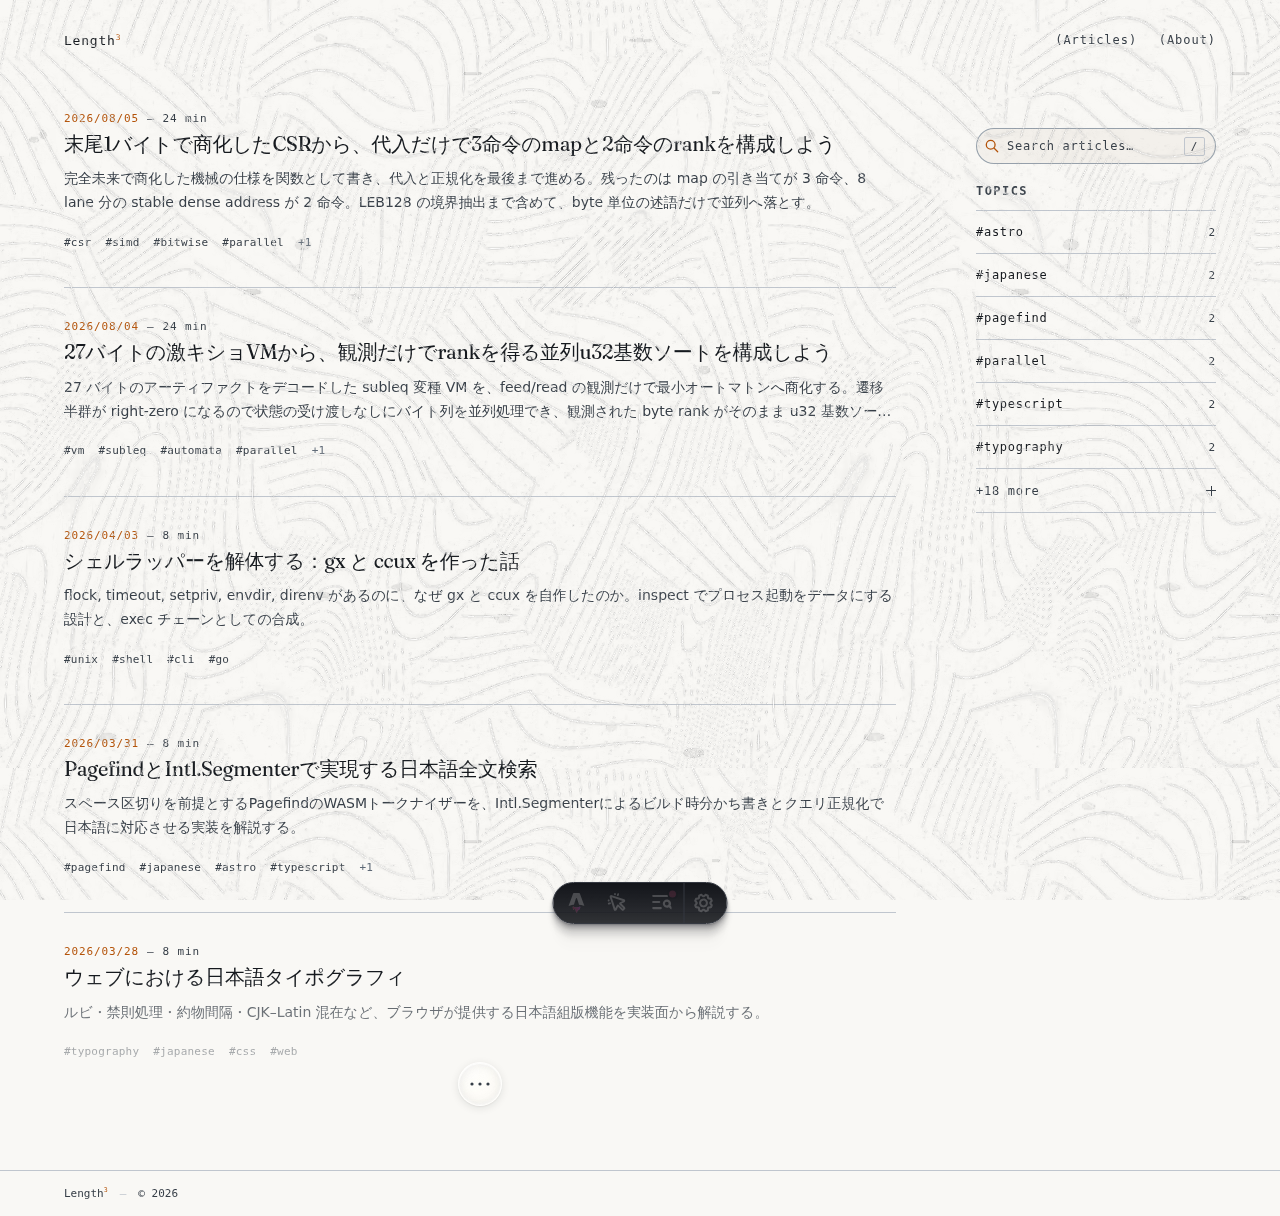
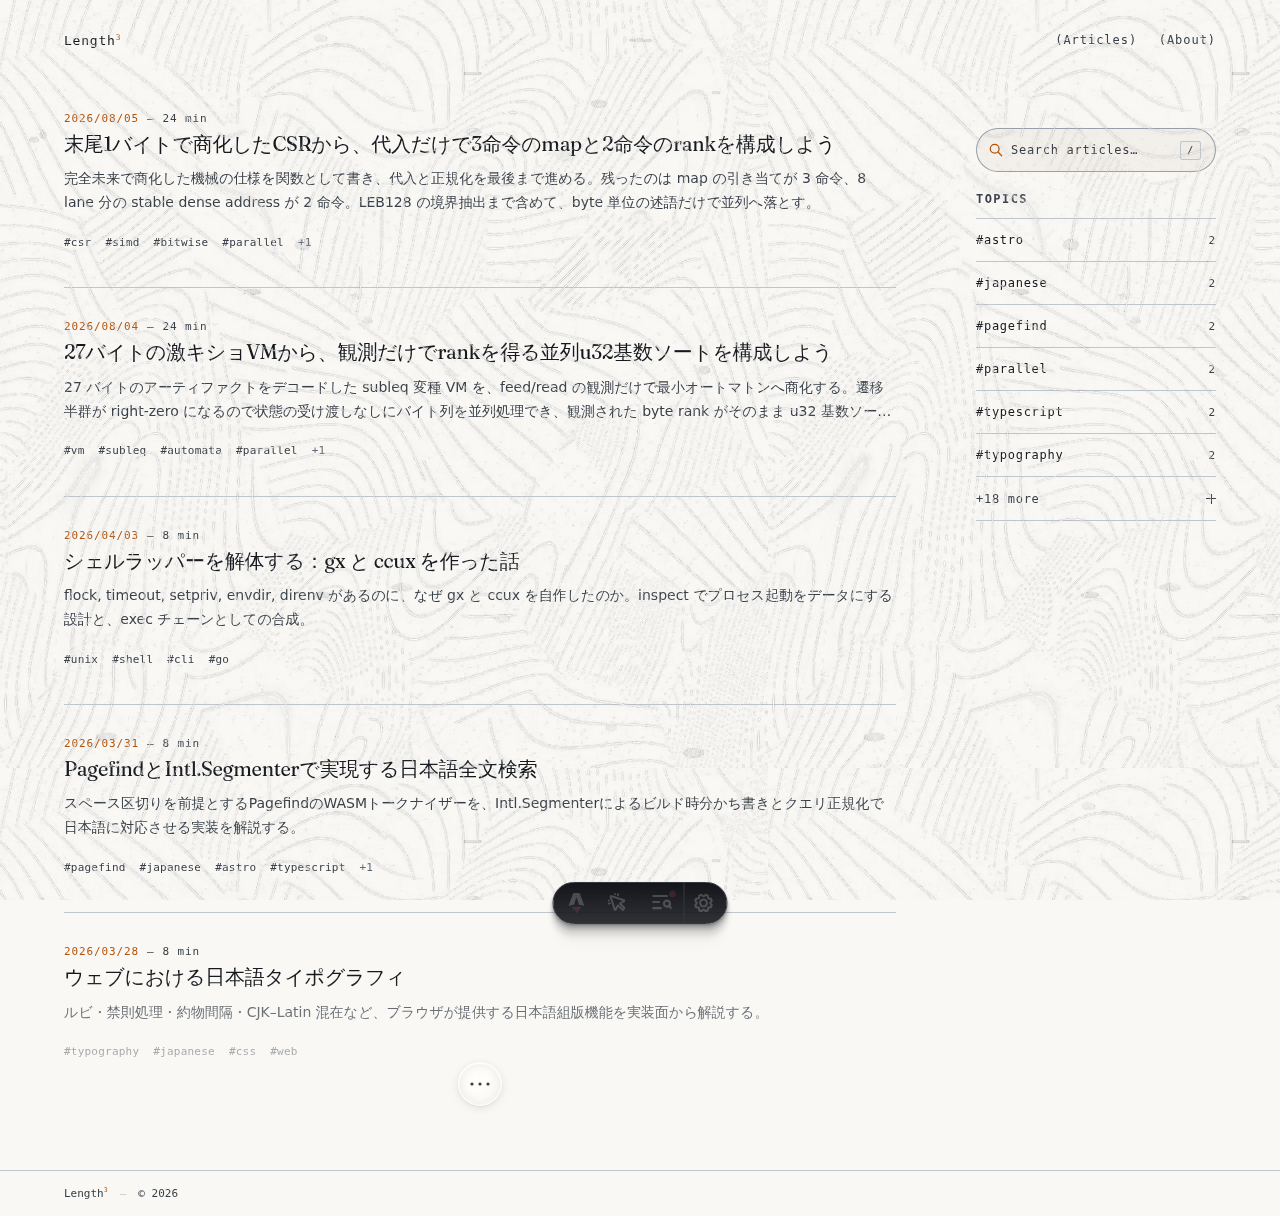
Round the corners, and fix a focus ring that never rendered
角:

- 半径のスケールを 2/3/4/8/10px から 4/6/8/12/16px へ。以前は面の大小に
  関わらずほぼ直角で、小さなチップでは意図的に見えても、600px のコード
  ブロックでは「まだ仕上げていない箱」に見えていた
- 形は corner-shape で超楕円にした。円弧は直線から曲線へ移る瞬間に曲率が
  飛ぶので、角が「切られた」ように見える。超楕円は曲率が連続するぶん同じ
  半径でも柔らかく、四つの弧と四本の直線ではなく一本の輪郭に見える。
  Chromium 以外は border-radius だけが効いて普通の丸角に落ちる
- pill は除外。半円の端そのものが形なので、超楕円にすると潰れる
- コードブロック 2px → 12px、コピーボタン 6px → 8px。リードは四隅とも
  丸め、左の琥珀の棒が丸みの外へ突き出ないよう overflow で切った

検索:

- 焦点環が最初から出ていなかった。--focus-halo（色だけの値）を box-shadow
  に直接渡していたが、長さの無い box-shadow は不正なので宣言ごと落ちる。
  outline で描き直した。forced-colors では box-shadow が丸ごと剥がされる
  ので、環が影だけを頼りにしていると必要な人にだけ消える
- 環と枠の両方を琥珀にすると同心円が二重になるので、変えるのは環だけに
  した
- カード自身の焦点環を消した。showModal() の初期フォーカス先であって
  操作する部品ではないのに、開いた瞬間モーダル全体が琥珀で囲まれていた
- 結果がまだ無いあいだ、結果の行のために空けた余白が検索欄の下の空箱として
  残っていた。カードは検索欄のぶんで止める（149px → 131px）
- 結果の 1 件を帯ではなく面にした。左右を内側へ入れて角を丸め、選択中の
  1 件がカードいっぱいの帯ではなくひとつの塊に見えるようにした
  （Starlight や shadcn の command も結果は一覧の内側に落としている）
- 一覧は <ul> なので、内側へ入れた途端に行頭記号が出てきた。list-style を
  切った
- サイドバーの検索トリガーが 36px で、spec §8 のタップターゲット下限
  (44px) を満たしていなかった
- カードの帯の上下 padding は閉じるボタン (44px) に負けて効いていなかった
  ので、左右だけ揃えた

スペーシング:

- 一覧の頭を 1rem → 1.5rem。ヘッダに罫が無いので 1 件目の日付が題字と
  地続きに見えていた

spec §1 に角の節を新設し、§6 の焦点環を outline 前提に書き直した。

pnpm lint / check / test:unit (136 tests) / e2e (8 passed) / build 通過。
docs のスクリーンショットは再生成した。

Claude-Session: https://claude.ai/code/session_01LaSeo7pCYsjGAyx8PCnChu

Changed region(s): [[0.75, 0.0938, 0.8438, 0.4375], [0.8438, 0.0938, 0.875, 0.125]]

diff --git a/src/styles/components/search.css b/src/styles/components/search.css
@@ -8,8 +8,9 @@
   align-items: center;
   gap: 0.5rem;
   width: 100%;
-  min-height: 2.25rem;
-  padding: 0.375rem 0.625rem 0.375rem 0.5rem;
+  /* 44px — spec §8 のタップターゲット下限。36px で足りていなかった。 */
+  min-height: 2.75rem;
+  padding: 0.5rem 0.875rem 0.5rem 0.75rem;
   border: 0.0625rem solid var(--surface-border);
   border-radius: var(--radius-pill);
   background: var(--surface-fill);
@@ -66,6 +67,15 @@
   background: var(--overlay-bg);
 }
 
+/* カードは showModal() の初期フォーカス先（本文へ焦点が飛ばないための受け皿）
+   であって、操作する部品ではない。焦点環を出すと、開いた瞬間にモーダル全体が
+   琥珀色の枠で囲まれる。 */
+.search-card:focus,
+.search-card:focus-visible {
+  outline: none;
+  box-shadow: var(--shadow-card);
+}
+
 .search-card {
   width: min(36rem, calc(100vw - 1rem));
   max-height: calc(100dvh - 1rem);
@@ -82,7 +92,9 @@
   display: flex;
   align-items: center;
   gap: 0.625rem;
-  padding: 0.25rem 0.375rem 0.25rem 1rem;
+  /* 帯の高さは閉じるボタン (44px) が決める。右は押せる範囲がカードの縁に
+     届くよう詰め、左は検索欄の始まりと同じ 1rem に揃える。 */
+  padding: 0 0.25rem 0 1rem;
   border-bottom: 0.0625rem solid var(--rule);
   background: var(--bg-2);
 }
@@ -215,8 +227,16 @@
     'results';
   align-items: start;
   gap: 0.75rem;
-  padding: 0.875rem 1rem 0.75rem;
+  padding: 0.875rem 1rem;
   overflow: hidden;
+}
+
+/* 結果がまだ無いあいだは、カードを検索欄のぶんで止める。結果の行のために
+   空けた余白が、何も無いときは検索欄の下の空箱として残っていた。 */
+[data-pagefind-ui]:not([data-search-state='results'])
+  .pagefind-ui__form[data-search-layout='stack'] {
+  grid-template-rows: auto;
+  gap: 0;
 }
 
 [data-pagefind-ui] .pagefind-ui__form::before {
@@ -243,10 +263,17 @@
   padding-right: 2.75rem !important;   /* クリアボタンぶんの余白 */
 }
 
+/* 焦点環は outline で描く。box-shadow は forced-colors で丸ごと剥がされる
+   ので、そこだけが頼りだと環ごと消える。
+   （--focus-halo を box-shadow に直接渡していたが、色だけで長さの無い値は
+   不正で、宣言ごと落ちていた。環は最初から出ていない。） */
 [data-pagefind-ui] .pagefind-ui__search-input[data-search-region='input']:focus-visible {
-  outline: none;
-  border-color: var(--amber-text);
-  box-shadow: var(--focus-halo);
+  outline: 0.125rem solid var(--amber-text);
+  outline-offset: 0.1875rem;
+  /* 枠は据え置き。環と枠を両方琥珀にすると、同心円が二重に見える。 */
+  box-shadow:
+    inset 0 0.0625rem 0.1875rem rgba(0, 0, 0, 0.06),
+    0 0 0 0.375rem var(--focus-halo);
 }
 
 [data-pagefind-ui] .pagefind-ui__search-input[data-search-region='input']::placeholder {
@@ -362,12 +389,20 @@
 [data-pagefind-ui] .pagefind-ui__results {
   margin: 0;
   padding: 0;
+  /* 一覧は <ul>。左右を内側へ入れた途端、隠れていた行頭記号が出てくる。 */
+  list-style: none;
 }
 
+/* 1 件を、帯ではなく面として置く。左右を少し内側へ入れ、角を丸めることで、
+   選択中の 1 件がカードいっぱいの帯ではなくひとつの塊に見える。
+   （Starlight や shadcn の command も、結果は一覧の内側に落としている） */
 .pagefind-ui__result {
-  padding: 0.875rem 1rem;
+  padding: 0.875rem 0.875rem 0.875rem 0.75rem;
+  margin-inline: 0.5rem;
   border-bottom: 0.0625rem solid var(--rule);
   border-left: 0.125rem solid transparent;
+  border-radius: var(--radius-md);
+  corner-shape: squircle;
 }
 
 .pagefind-ui__result:last-child {
@@ -377,6 +412,7 @@
 .pagefind-ui__result:focus-within,
 .pagefind-ui__result[aria-selected='true'] {
   border-left-color: var(--amber-text);
+  border-bottom-color: transparent;
   background: var(--bg-2);
 }
 
@@ -401,8 +437,9 @@
 }
 
 .pagefind-ui__result-link:focus-visible {
-  outline: none;
-  box-shadow: var(--focus-halo);
+  outline: 0.125rem solid var(--amber-text);
+  outline-offset: 0.125rem;
+  box-shadow: 0 0 0 0.25rem var(--focus-halo);
   border-radius: var(--radius-xs);
 }
 

diff --git a/src/styles/tokens.css b/src/styles/tokens.css
@@ -74,12 +74,19 @@
   --layout-gap:          clamp(2rem, 4vw, 2.5rem);
   --page-gutter:         clamp(1.25rem, 4vw, 1.5rem);
 
-  /* Border radius scale */
-  --radius-xs:   0.125rem;  /*  2px — 画像・細部アクセント */
-  --radius-sm:   0.1875rem; /*  3px — タグ・インラインコード */
-  --radius-md:   0.25rem;   /*  4px — ボタン・小パネル */
-  --radius-lg:   0.5rem;    /*  8px — カード・リードブロック */
-  --radius-xl:   0.625rem;  /* 10px — モーダルカード */
+  /* Border radius scale
+     角は面の大きさに比例させる。以前の 2〜10px は、どの面でも「ほぼ直角」に
+     見えていて、大きな面ほど四角さが目立っていた。
+
+     形は corner-shape で超楕円にする。円弧は直線から曲線へ移る瞬間に曲率が
+     不連続に飛ぶので、角が「切られた」ように見える。超楕円は曲率が連続して
+     変化するぶん、同じ半径でも柔らかい。Chromium のみ対応だが、非対応では
+     border-radius だけが効いて普通の丸角になる。 */
+  --radius-xs:   0.25rem;   /*  4px — 画像・細部アクセント */
+  --radius-sm:   0.375rem;  /*  6px — タグ・インラインコード */
+  --radius-md:   0.5rem;    /*  8px — 小さなボタン */
+  --radius-lg:   0.75rem;   /* 12px — コードブロック・リード */
+  --radius-xl:   1rem;      /* 16px — モーダルカード */
   --radius-pill: 999px;     /* pill形状（検索バー等） */
 
   /* Motion */

diff --git a/src/styles/typography.css b/src/styles/typography.css
@@ -170,7 +170,8 @@
   background-attachment: local, local, scroll, scroll;
   border: 0.0625rem solid var(--code-edge);
   border-left: 0.125rem solid var(--amber-lt);
-  border-radius: var(--radius-xs);
+  /* 面の大きさに見合う角。2px では、この大きさの暗い矩形はただの箱に見えた。 */
+  border-radius: var(--radius-lg);
   padding: 1.25rem;
   overflow-x: auto;
   overscroll-behavior-x: contain;
@@ -233,7 +234,7 @@
   height: 1.875rem;
   padding: 0;
   border: 0.0625rem solid var(--code-edge);
-  border-radius: var(--radius-sm);
+  border-radius: var(--radius-md);
   background: var(--code-bg);
   color: var(--code-dim);
   cursor: pointer;
@@ -409,6 +410,9 @@ rt {
 /* Lead paragraph — spec §3: 1px left-border in amber */
 .article-header-lead {
   position: relative;
+  /* 角を丸めたので、左の琥珀の棒 (::before) を面の形で切る。切らないと
+     棒だけが丸みの外へ真っ直ぐ突き出る。 */
+  overflow: hidden;
   font-family: var(--font-display);
   font-size: 1rem;
   font-weight: 300;
@@ -418,7 +422,8 @@ rt {
   padding: 0.5rem 0.75rem 0.5rem 1rem;
   margin-bottom: 0;
   background: var(--amber-tint);
-  border-radius: 0 var(--radius-lg) var(--radius-lg) 0;
+  /* 四隅とも丸める。左だけ直角だと、面が版面から切り出された断片に見える。 */
+  border-radius: var(--radius-lg);
 }
 
 .article-header-lead::before {

diff --git a/src/styles/base.css b/src/styles/base.css
@@ -48,6 +48,16 @@ body::before {
   z-index: var(--z-texture);
 }
 
+/* 角の形。半径を持つ面のうち、pill 以外はすべて超楕円にする。円弧は直線から
+   曲線へ移る瞬間に曲率が飛ぶので角が「切られた」ように見えるが、超楕円は
+   曲率が連続するぶん同じ半径でも柔らかい。pill は半円の端そのものが形なので
+   除く。Chromium 以外は corner-shape を無視して普通の丸角に落ちる。 */
+:where(.prose pre, .prose code, .prose img, .code-block, .code-copy,
+  .article-header-lead, .search-card, .search-hint, .search-shortcut,
+  .tag-pill, .skip-link) {
+  corner-shape: squircle;
+}
+
 a {
   color: inherit;
   text-decoration: none;

diff --git a/docs/specs/ui-spec.md b/docs/specs/ui-spec.md
@@ -20,6 +20,14 @@ This specification defines the complete visual and behavioral contract for the b
 
 All dimensions derive from an **8px grid**. The minimum subdivision is 4px, used only where 8px produces excessive spacing (e.g., inline code padding). Intermediate values such as 13px, 17px, or 23px are prohibited. The eye perceives alignment when proportional relationships hold; arbitrary values undermine that perception.
 
+### Corners
+
+Radius scales with the surface: **4 / 6 / 8 / 12 / 16px**, plus a pill. The previous 2–10px scale gave every surface the same near-right-angle, which read as deliberate on a 20px chip and as an unfinished box on a 600px code block. A corner should look like the same decision at every size, which means it cannot be the same number at every size.
+
+The **shape** is a superellipse (`corner-shape: squircle`), not a circular arc. An arc meets the straight edge with a jump in curvature — the eye reads that discontinuity as a corner that was _cut_. A superellipse varies its curvature continuously, so the same radius reads softer and the shape reads as one contour rather than four arcs bridged by four lines. Chromium-only; everywhere else `border-radius` alone applies and the corner is simply a normal round.
+
+Pills are exempt: a pill's semicircular end _is_ the shape, and a superellipse would flatten it.
+
 ### Maximum Widths
 
 The outer content boundary is **1200px**. Within that boundary, the prose column is capped at **680px**. This constraint is not aesthetic preference — it is a reading-performance decision. Japanese prose reads best at 35–40 characters per line; English at 65–75. Beyond those thresholds, the eye loses its anchor when returning to the start of the next line.
@@ -280,9 +288,9 @@ Located in the left column. `position: sticky; top: 32px`.
 
 ### Code Blocks
 
-**Inline code:** `--code-inline-bg` (`#edeae4`) background, `border-radius: 3px`, `padding: 1px 5px`, JetBrains Mono 0.88em, Ink. No border — inline code sits inside a running line, and a drawn box on every occurrence turns a Japanese paragraph into a string of rectangles. The tint alone marks it, and a 1px inset shadow gives the tint an edge without a stroke.
+**Inline code:** `--code-inline-bg` (`#edeae4`) background, `border-radius: var(--radius-sm)`, `padding: 1px 5px`, JetBrains Mono 0.88em, Ink. No border — inline code sits inside a running line, and a drawn box on every occurrence turns a Japanese paragraph into a string of rectangles. The tint alone marks it, and a 1px inset shadow gives the tint an edge without a stroke.
 
-**Block code:** `--code-bg` (`#20272f`) background — a dark gray carrying blue, not black. `border: 1px solid --code-edge`, `border-left: 2px solid #e8a030` (amber-lt), `border-radius: 2px`, `padding: 20px`. JetBrains Mono 0.8125rem, `--code-fg` (`#d9d4cb`) — kept warm so the text sits off the cool ground — `line-height: 1.65`.
+**Block code:** `--code-bg` (`#20272f`) background — a dark gray carrying blue, not black. `border: 1px solid --code-edge`, `border-left: 2px solid #e8a030` (amber-lt), `border-radius: var(--radius-lg)`, `padding: 20px`. JetBrains Mono 0.8125rem, `--code-fg` (`#d9d4cb`) — kept warm so the text sits off the cool ground — `line-height: 1.65`.
 
 **Block code is a dark surface; inline code is not.** The two are different objects. A block is a figure the reader stops on — set as a slab, it separates from the prose the way a plate separates from body text in print, and the sharp 1px edge is what makes it read as an object rather than a wash. Inline code is not an object; it belongs to the sentence, so it stays light. Earlier revisions of this document prohibited dark blocks on the grounds that they rupture reading flow; in practice the near-invisible BG-2 wash (a 1.06:1 step from the page) failed to mark the block at all.
 
@@ -356,7 +364,11 @@ No other transitions exist. This list is exhaustive.
 
 Tab order follows DOM order. The DOM is written in logical reading order so that `tabindex` manipulation is unnecessary.
 
-**Focus outline:** `outline: 2px solid var(--amber); outline-offset: 3px`. Browser default outlines are replaced, never removed. The replacement must provide equal or greater visibility.
+**Focus outline:** `outline: 2px solid var(--amber-text); outline-offset: 3px`, plus a soft `--focus-halo` ring outside it. Browser default outlines are replaced, never removed. The replacement must provide equal or greater visibility.
+
+The ring is drawn with **`outline`, never with `box-shadow` alone**. Forced-colours mode strips box-shadows entirely, so a shadow-only ring vanishes for exactly the users who need it most. `box-shadow` may add a second, softer halo outside the outline — it may not be the ring itself. A focused control changes **one** thing chromatically: the outline. Recolouring the border as well produces two concentric amber rings and reads as an error state.
+
+(Two rules previously passed `--focus-halo` — a bare colour — straight to `box-shadow`. A box-shadow with no lengths is invalid, so those declarations were dropped and the halo never rendered at all.)
 
 **Search modal focus trap:** When open, Tab cycles through modal-internal elements only. Escape closes the modal and returns focus to the element that triggered it.
 
